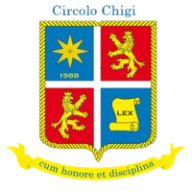
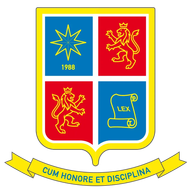
fix navigation and refresh Chigi branding

diff --git a/src/app/page.test.tsx b/src/app/page.test.tsx
@@ -32,7 +32,7 @@ vi.mock("@/lib/supabaseBrowser", () => ({
 }))
 
 describe("Calendar page", () => {
-  it("keeps one desktop title action and one mobile FAB for managers", async () => {
+  it("keeps one responsive add action in the titlebar", async () => {
     render(<Home />)
 
     await waitFor(() => {
@@ -41,29 +41,27 @@ describe("Calendar page", () => {
       ).toBeVisible()
     })
 
-    const addActions = screen.getAllByRole("button", {
+    const addAction = screen.getByRole("button", {
       name: "Aggiungi evento",
     })
-    expect(addActions).toHaveLength(2)
-    expect(
-      addActions.find((action) => action.classList.contains("sm:inline-flex")),
-    ).toHaveClass("hidden", "sm:inline-flex")
-    expect(
-      addActions.find((action) => action.classList.contains("sm:hidden")),
-    ).toHaveClass("sm:hidden", "fixed", "size-14")
+    expect(addAction).toHaveClass(
+      "size-11",
+      "rounded-full",
+      "sm:h-8",
+      "sm:w-auto",
+      "sm:rounded-md",
+    )
+    expect(addAction).not.toHaveClass("fixed", "bottom-24", "sm:hidden")
+    expect(screen.getByLabelText("Azioni pagina")).toContainElement(addAction)
   })
 
-  it("explains the icon-only mobile add action on hover", async () => {
+  it("explains the icon-only title action on mobile", async () => {
     render(<Home />)
 
-    const mobileAddAction = await waitFor(() => {
-      const action = screen
-        .getAllByRole("button", { name: "Aggiungi evento" })
-        .find((button) => button.classList.contains("sm:hidden"))
-      expect(action).toBeDefined()
-      return action!
+    const addAction = await screen.findByRole("button", {
+      name: "Aggiungi evento",
     })
-    fireEvent.pointerMove(mobileAddAction)
+    fireEvent.pointerMove(addAction)
 
     expect(await screen.findByRole("tooltip")).toHaveTextContent(
       "Aggiungi evento",
@@ -73,12 +71,10 @@ describe("Calendar page", () => {
   it("uses violet for calendar actions and selected tools", async () => {
     render(<Home />)
 
-    const addActions = await screen.findAllByRole("button", {
+    const addAction = await screen.findByRole("button", {
       name: "Aggiungi evento",
     })
-    for (const action of addActions) {
-      expect(action).toHaveClass("bg-violet-600", "hover:bg-violet-700")
-    }
+    expect(addAction).toHaveClass("bg-violet-600", "hover:bg-violet-700")
 
     const matches = screen.getByRole("button", { name: "Partite" })
     expect(matches.querySelector("svg")).toHaveClass(

diff --git a/src/app/page.tsx b/src/app/page.tsx
@@ -495,15 +495,20 @@ export default function Home() {
       <div className="flex flex-col gap-2">
           <PageTitleBar
             actions={isManager ? (
-              <Button
-                aria-label="Aggiungi evento"
-                className="hidden gap-1.5 bg-violet-600 text-white hover:bg-violet-700 sm:inline-flex"
-                onClick={handleCreateNew}
-                size="sm"
-              >
-                <Plus aria-hidden="true" />
-                Aggiungi evento
-              </Button>
+              <Tooltip>
+                <TooltipTrigger asChild>
+                  <Button
+                    aria-label="Aggiungi evento"
+                    className="size-11 rounded-full bg-violet-600 px-0 text-white hover:bg-violet-700 sm:h-8 sm:w-auto sm:rounded-md sm:px-3"
+                    onClick={handleCreateNew}
+                    size="sm"
+                  >
+                    <Plus aria-hidden="true" />
+                    <span className="sr-only sm:not-sr-only">Aggiungi evento</span>
+                  </Button>
+                </TooltipTrigger>
+                <TooltipContent className="sm:hidden">Aggiungi evento</TooltipContent>
+              </Tooltip>
             ) : null}
             context={nextMatch ? (
               <div className="flex justify-end">
@@ -694,21 +699,6 @@ export default function Home() {
                 {renderDesktopCalendar()}
             </div>
         </>
-      )}
-
-      {isManager && (
-          <Tooltip>
-            <TooltipTrigger asChild>
-              <Button
-                aria-label="Aggiungi evento"
-                className="fixed right-4 bottom-24 z-50 size-14 rounded-full bg-violet-600 text-white shadow-lg transition-transform hover:scale-105 hover:bg-violet-700 active:scale-95 sm:hidden"
-                onClick={handleCreateNew}
-              >
-              <Plus className="size-8" />
-              </Button>
-            </TooltipTrigger>
-            <TooltipContent className="sm:hidden">Aggiungi evento</TooltipContent>
-          </Tooltip>
       )}
 
       <EventDialog 

diff --git a/src/components/BottomNav.tsx b/src/components/BottomNav.tsx
@@ -22,8 +22,8 @@ export function BottomNav() {
   ]
 
   return (
-    <nav className="fixed inset-x-0 bottom-0 z-40 border-t border-border bg-background/95 pb-safe shadow-sm backdrop-blur-md md:inset-x-auto md:right-auto md:bottom-4 md:left-1/2 md:-translate-x-1/2 md:rounded-full md:border md:p-1 md:pb-1 md:shadow-md">
-      <div className="mx-auto flex h-16 max-w-lg items-center justify-around md:h-14 md:max-w-none">
+    <nav className="bottom-nav-safe fixed inset-x-2 z-40 rounded-full border border-border bg-background/95 p-1 shadow-md backdrop-blur-md md:inset-x-auto md:right-auto md:bottom-4 md:left-1/2 md:-translate-x-1/2">
+      <div className="mx-auto flex h-14 max-w-lg items-center justify-around md:max-w-none">
         {links.map(({ href, label, icon: Icon }) => {
           // Logica attiva: Home esatta oppure sottopagina (es. /torneo/classifica)
           const isActive = href === '/' ? pathname === '/' : pathname?.startsWith(href);
@@ -34,10 +34,10 @@ export function BottomNav() {
               key={href} 
               href={href} 
               className={cn(
-                "group flex h-full w-full touch-manipulation flex-col items-center justify-center gap-0.5 rounded-xl px-1 text-muted-foreground transition-[color,background-color,transform] duration-200 active:scale-95 md:w-24",
+                "group flex h-full min-w-0 w-full touch-manipulation flex-col items-center justify-center gap-0.5 rounded-full px-1 text-muted-foreground transition-[color,background-color,box-shadow,transform] duration-200 active:scale-95 md:w-24",
                 isActive
-                  ? "bg-violet-100/80 text-violet-800 dark:bg-violet-900/70 dark:text-violet-100"
-                  : "hover:bg-accent hover:text-accent-foreground",
+                  ? "bg-violet-600 text-white shadow-sm hover:bg-violet-700"
+                  : "hover:bg-violet-50 hover:text-violet-700 dark:hover:bg-violet-950/50 dark:hover:text-violet-200",
               )}
             >
               <span

diff --git a/src/app/login/page.tsx b/src/app/login/page.tsx
@@ -3,11 +3,11 @@
 import { useState, useEffect } from 'react'
 import { supabaseBrowser as supabase } from '@/lib/supabaseBrowser'
 import { useRouter } from 'next/navigation'
+import Image from 'next/image'
 import { Button } from "@/components/ui/button"
 import { Input } from "@/components/ui/input"
 import { Card, CardContent, CardHeader, CardTitle, CardDescription } from "@/components/ui/card"
 import { Loader2, Mail } from 'lucide-react'
-import { Avatar, AvatarFallback, AvatarImage } from "@/components/ui/avatar"
 import { toast } from "sonner"
 import { Label } from "@/components/ui/label"
 import { PageContainer } from "@/components/layout/PageContainer"
@@ -89,15 +89,15 @@ export default function LoginPage() {
       <Card className="w-full max-w-sm shadow-xl border-t-4 border-t-primary animate-in fade-in zoom-in-95 duration-300">
         <CardHeader className="flex flex-col items-center gap-4 pb-2">
 
-          <div className="relative h-24 w-24 rounded-full bg-white shadow-md flex items-center justify-center p-1 border-2 border-slate-100">
-             <Avatar className="h-full w-full">
-                <AvatarImage 
-                    src="https://cdn.enjore.com/source/img/team/badge/q/1068461sZGTQo021pdfMG4.png" 
-                    className="object-contain"
-                    alt="Logo Circolo Chigi"
-                />
-                <AvatarFallback>CC</AvatarFallback>
-             </Avatar>
+          <div className="relative h-32 w-28 overflow-hidden rounded-2xl bg-slate-950 shadow-md ring-1 ring-slate-800">
+            <Image
+              alt="Logo Circolo Chigi"
+              className="object-contain p-2"
+              fill
+              priority
+              sizes="112px"
+              src="/logo-circolo-chigi.webp"
+            />
           </div>
 
           <div className="text-center space-y-1">

diff --git a/src/components/BottomNav.test.tsx b/src/components/BottomNav.test.tsx
@@ -32,23 +32,33 @@ describe("BottomNav", () => {
     ).toBe(true)
   })
 
-  it("distinguishes the active item from the desktop pill", () => {
+  it("uses the calendar pill pattern on mobile and desktop", () => {
     render(<BottomNav />)
 
     const navigation = screen.getByRole("navigation")
     expect(navigation).toHaveClass(
+      "inset-x-2",
+      "rounded-full",
+      "border",
+      "p-1",
       "md:bottom-4",
       "md:left-1/2",
-      "md:rounded-full",
     )
 
     const active = screen.getByRole("link", { name: "Squadra" })
     expect(active).toHaveClass(
-      "rounded-xl",
-      "bg-violet-100/80",
-      "text-violet-800",
+      "rounded-full",
+      "bg-violet-600",
+      "text-white",
+      "hover:bg-violet-700",
     )
-    expect(active).not.toHaveClass("rounded-full")
+    expect(active).not.toHaveClass("bg-violet-100/80")
+
+    const inactive = screen.getByRole("link", { name: "Calendario" })
+    expect(inactive).toHaveClass(
+      "hover:bg-violet-50",
+      "hover:text-violet-700",
+    )
     expect(active.querySelector("svg")?.parentElement).toHaveClass(
       "motion-safe:group-hover:-translate-y-0.5",
     )

diff --git a/src/components/formations/FormationBuilder.tsx b/src/components/formations/FormationBuilder.tsx
@@ -684,7 +684,7 @@ export function FormationBuilder({
                             <div className="absolute top-4 left-1/2 transform -translate-x-1/2 w-1/2 h-[15%] border-2 border-t-0 border-white/60 bg-white/5 pointer-events-none"></div>
                             <div className="absolute bottom-4 left-1/2 transform -translate-x-1/2 w-1/2 h-[15%] border-2 border-b-0 border-white/60 bg-white/5 pointer-events-none"></div>
                             <div className="absolute top-1/2 left-1/2 transform -translate-x-1/2 -translate-y-1/2 opacity-15 pointer-events-none">
-                                <Image src="https://cdn.enjore.com/source/img/team/badge/q/1068461sZGTQo021pdfMG4.png" alt="" width={128} height={128} className="w-32 h-32 grayscale brightness-200" />
+                                <Image src="/logo-circolo-chigi-mark.webp" alt="Logo Circolo Chigi" width={128} height={128} className="h-32 w-32 object-contain" />
                             </div>
 
                             {(FORMATIONS[module] as FormationSlotDef[]).map((slot) => (

diff --git a/src/components/SiteHeader.tsx b/src/components/SiteHeader.tsx
@@ -31,12 +31,12 @@ export function SiteHeader() {
         >
           <span className="relative size-8 shrink-0 sm:size-9">
             <Image
-              alt=""
+              alt="Logo Circolo Chigi"
               className="object-contain transition-transform duration-200 motion-safe:group-hover:rotate-2"
               fill
               priority
               sizes="36px"
-              src="/icon.png"
+              src="/logo-circolo-chigi-mark.webp"
             />
           </span>
           <span className="truncate text-[11px] font-black uppercase tracking-tight sm:hidden">

diff --git a/src/app/globals.css b/src/app/globals.css
@@ -171,12 +171,18 @@
 }
 
 @layer utilities {
-  .pb-safe {
-    padding-bottom: env(safe-area-inset-bottom);
+  .bottom-nav-safe {
+    bottom: calc(0.5rem + env(safe-area-inset-bottom));
   }
 
   .pb-bottom-nav {
-    padding-bottom: calc(4rem + 1px + env(safe-area-inset-bottom));
+    padding-bottom: calc(5rem + env(safe-area-inset-bottom));
+  }
+
+  @media (min-width: 48rem) {
+    .bottom-nav-safe {
+      bottom: 1rem;
+    }
   }
 }
 

diff --git a/src/components/SiteHeader.test.tsx b/src/components/SiteHeader.test.tsx
@@ -61,6 +61,10 @@ describe("SiteHeader", () => {
   it("keeps a compact app title visible on mobile", () => {
     render(<SiteHeader />)
 
+    expect(screen.getByRole("img", { name: "Logo Circolo Chigi" })).toHaveAttribute(
+      "src",
+      expect.stringContaining("logo-circolo-chigi-mark"),
+    )
     expect(screen.getByText("Calcio Chigi", { exact: true })).toHaveClass(
       "sm:hidden",
     )

diff --git a/public/sw.js b/public/sw.js
@@ -1,4 +1,4 @@
-const CACHE_NAME = "real-chigi-cache-v3";
+const CACHE_NAME = "real-chigi-cache-v4";
 
 const STATIC_ASSETS = [
   "/manifest.json",
@@ -6,6 +6,8 @@ const STATIC_ASSETS = [
   "/icon-192x192.png",
   "/icon-512x512.png",
   "/icon.png",
+  "/logo-circolo-chigi.webp",
+  "/logo-circolo-chigi-mark.webp",
 ];
 
 self.addEventListener("install", (event) => {
